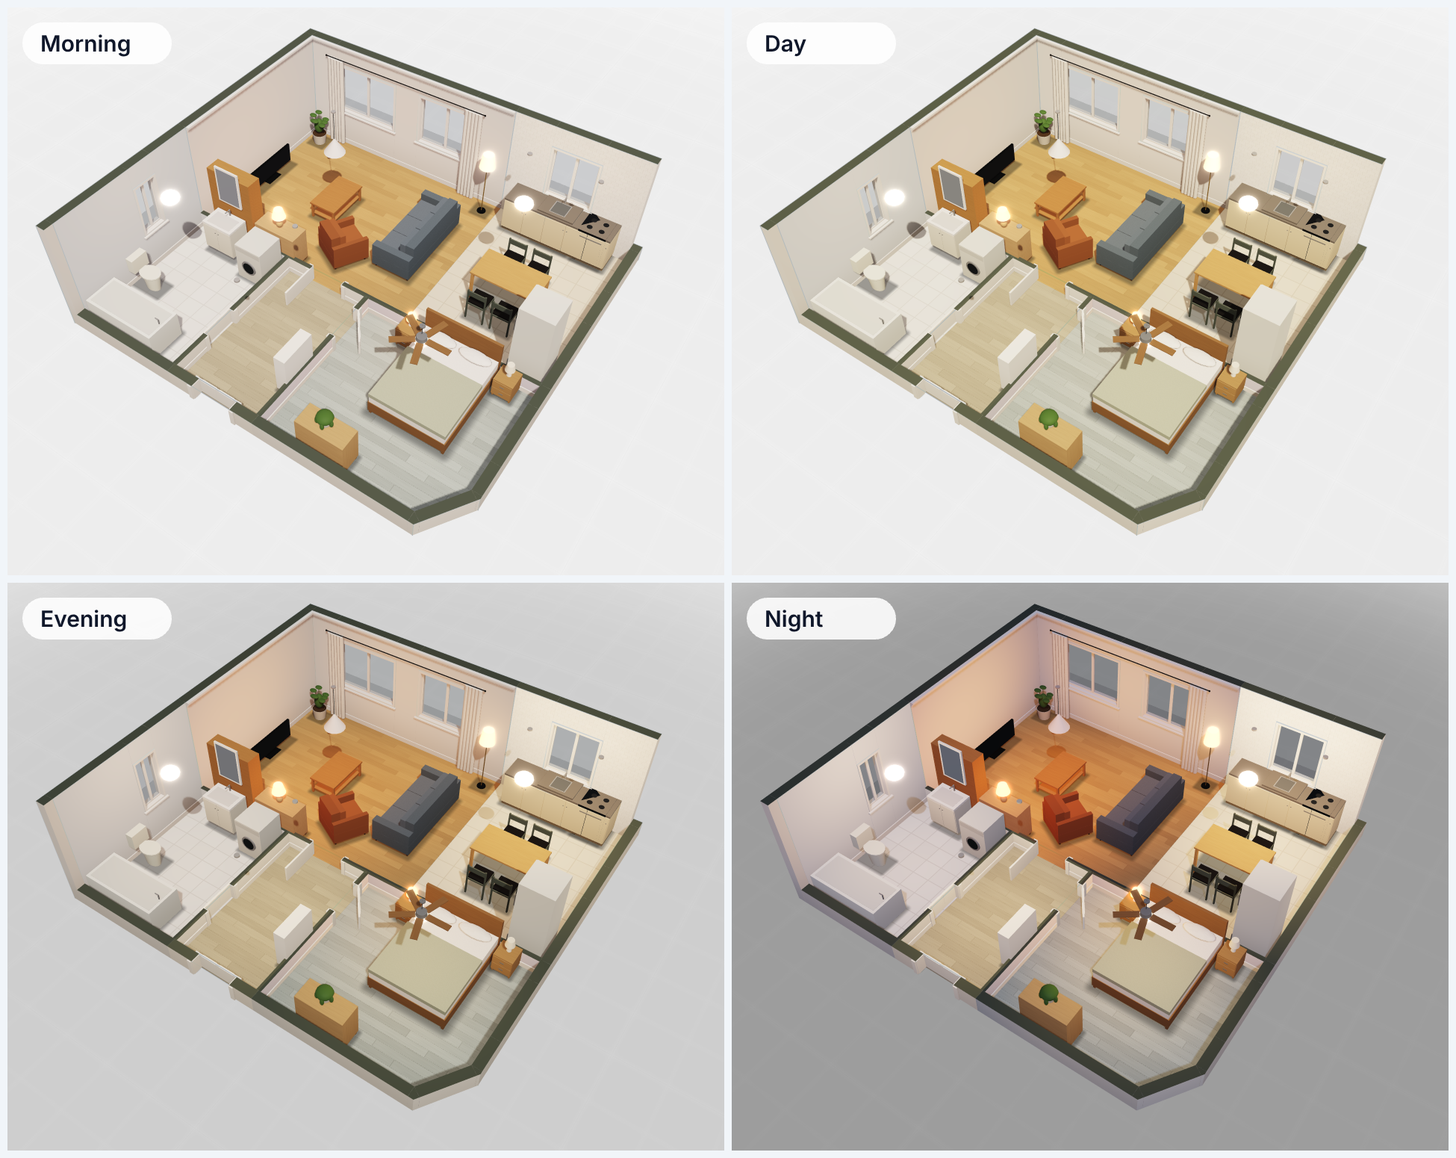
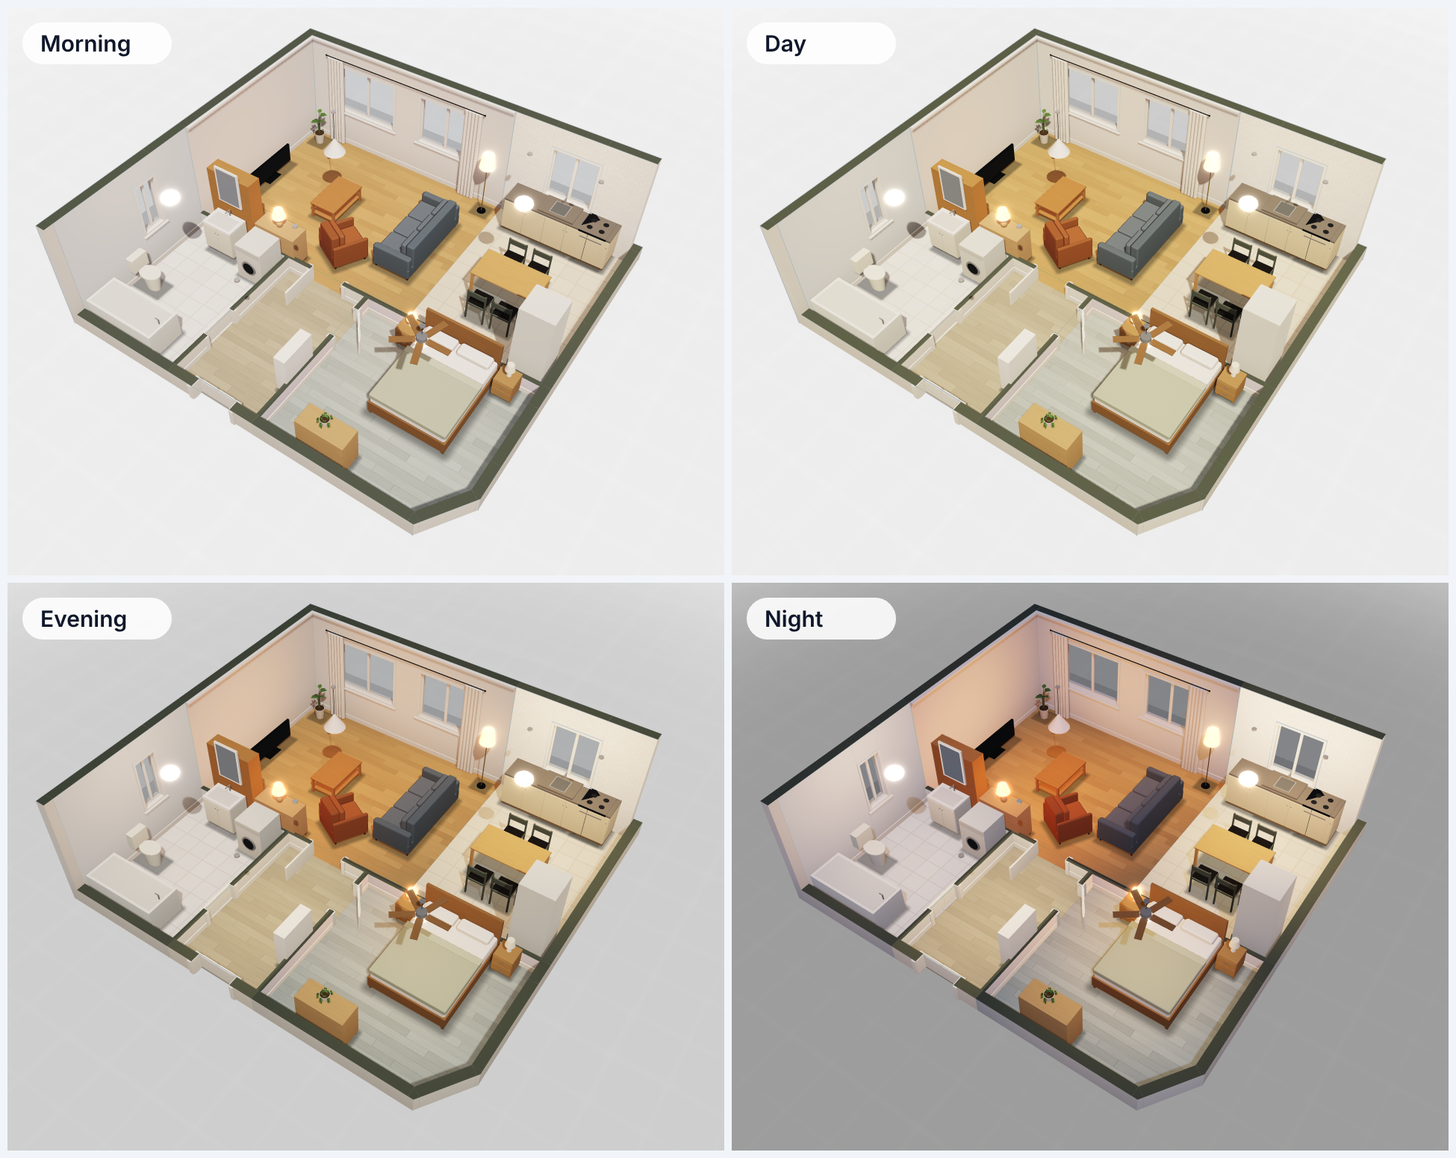
docs: pieces that look made, and a neon of its own (m15, d-048)
- D-048: leaves as folded blades, soft boxes, plants within their spread,
  the new neon, each look's own accent.
- Roadmap M15, performance (triangles, frame time against main), looks,
  storeys, architecture, both READMEs.
- The docs' pictures made again with the new pieces and the new neon; every
  storey at once is shown in blueprint, under its glass roof.

Claude-Session: https://claude.ai/code/session_01MdonJq9hYPn9yZJEoWBmnq

diff --git a/docs/looks.md b/docs/looks.md
@@ -5,9 +5,9 @@ layers, devices, people and alerts work the same way in each.
 
 ![The demo apartment in the evening, in the neon, blueprint and day looks](figures/screenshot-looks.png)
 
-- **Neon**: a night view. The walls are tinted glass, the outlines of the home glow in the accent
-  colour, the furniture takes night blues, and lamps and screens shine. A grid on the ground fades
-  into the dark.
+- **Neon**: the home at dusk. It stands in a deep violet on a ground of dots fading into the dark;
+  the tops of its walls are lit strips in the accent colour (amber unless you choose another), the
+  furniture keeps its colours under a violet light, and lamps and screens shine.
 - **Blueprint**: white lines on blue, like an architect's drawing in 3D.
 - **Day**: the home as it is, its furniture, floors and paint, in the light of the time of day
   (morning, day, evening, night) with the sun's shadows. It stands on a ground that dims at night.
@@ -20,11 +20,11 @@ layers, devices, people and alerts work the same way in each.
 
 **Automatic**, the default, shows neon when Home Assistant is in dark mode, and day otherwise.
 
-The 2D plan follows the look too: glowing wall outlines on dark floors in neon, white walls on blue
+The 2D plan follows the look too: glowing wall outlines on violet floors in neon, white walls on blue
 in blueprint, thick dark walls on bright floors in cartoon, and the same clay throughout in the clay
 model.
 
-![The neon look in the panel: the rooms' names on their floors, lamps on in the living room and the kitchen](figures/screenshot-neon.png)
+![The neon look in the panel: the home at dusk, the tops of its walls lit in amber, the rooms' names on their floors, lamps on in the living room and the kitchen](figures/screenshot-neon.png)
 
 ## Choosing
 
@@ -36,20 +36,23 @@ model.
 ```yaml
 type: custom:domotwin-card
 theme: neon        # auto, day, neon, blueprint, cartoon or clay; absent: the home's look
-accent: "#ff2d95"  # the accent colour; absent: the home's
+accent: "#ff2d95"  # the accent colour; absent: the home's, else the look's own
 names: true        # the rooms' names on their floors (true by default)
 small_rooms: false # closets' and small rooms' names too (false by default)
 ```
 
-The accent tints neon's outlines and grid, and the buttons of the view in neon.
+The accent tints neon's wall tops and dots, and the buttons of the view in neon. Each look has its
+own: amber in neon, cyan in the others. In the settings, **Default** goes back to the look's own.
 
 ## What makes them
 
 - **Outlines**: the tops and corners of the walls, the frames of doors and windows and the
   outlines of the floors are drawn as lines a few pixels wide, whatever the zoom, lowered with the
-  walls when they are cut away. In day they are thin and dark; in neon and blueprint they glow;
+  walls when they are cut away. In day they are thin and dark; in blueprint they glow; in neon,
+  the level ones glow as lit strips (the tops of the walls, the floors' outlines, the heads and
+  sills of doors and windows) and the upright ones are left out;
   in cartoon they are thick black ink; in the clay model, faint.
-- **Glass walls** (neon and blueprint): you see into every room from any angle, and a tap goes
+- **Glass walls** (blueprint): you see into every room from any angle, and a tap goes
   through a wall to what is behind it. The tops of the walls stay solid.
 - **Bloom**: lamps that are on, their halos, screens, outlines and the grid glow. It is drawn on
   GPUs that can afford it: from the Balanced quality for neon and blueprint, on High for day,
@@ -59,6 +62,9 @@ The accent tints neon's outlines and grid, and the buttons of the view in neon.
   (a sofa on the floor, a person, the home on the lawn) is inked along its edge. The ink is found
   in the depth of what is opaque, before glass, outlines, halos and wires are drawn over it, from
   the Balanced quality up, the same at any zoom and in the 2D plan. On Eco the cartoon keeps its outlines and a darker rim on curved pieces.
+- **Pieces**: plants are drawn leaf by leaf, each leaf a folded blade seen from above and below;
+  sofas, beds, cushions and the tops of tables have round edges that catch the light. They cost no
+  more triangles than the boxes and balls they replaced (`docs/DECISIONS.md`, D-048).
 - **The rooms' names** stand on their floors, well inside them (in an arm of an L-shaped room). A
   layer's values take their place while the layer is shown.
 
@@ -68,8 +74,10 @@ Day follows the dashboard.
 
 ## For developers
 
-- `crates/domotwin-core/src/theme.rs`: the looks as data (colours, glass walls, outlines, bloom,
-  palette, light, bands, vividness, ink).
+- `crates/domotwin-core/src/theme.rs`: the looks as data (colours, glass walls, outlines and how
+  much of them rises, the ground's grid or dots, bloom, palette, light, bands, vividness, ink).
+- `crates/domotwin-core/src/scene/mesh.rs`: the shapes the pieces are made of, among them the
+  soft box (round edges) and the blade (a leaf); `scene/furniture.rs`: the pieces.
 - `crates/domotwin-core/src/scene/lines.rs` and `scene/structure.rs`: the outlines of the home,
   built from the walls' layout.
 - `crates/domotwin-render`: the background pass (sky, ground, grid), the glass walls pass, the

diff --git a/README.fr.md b/README.fr.md
@@ -1,5 +1,5 @@
 <p align="center">
-  <img src="https://raw.githubusercontent.com/arthur-leguennec/ha-domotwin/main/docs/figures/screenshot-neon.png" alt="DomoTwin : un appartement fictif dans l’apparence néon, ses murs de verre soulignés de cyan, ses lampes allumées, le nom des pièces au sol" width="100%">
+  <img src="https://raw.githubusercontent.com/arthur-leguennec/ha-domotwin/main/docs/figures/screenshot-neon.png" alt="DomoTwin : un appartement fictif dans l’apparence néon, au crépuscule dans un violet profond, le haut de ses murs éclairé d’ambre, ses lampes allumées, le nom des pièces au sol" width="100%">
 </p>
 
 <p align="center"><b>Votre logement en jumeau 3D vivant dans Home Assistant.</b><br>
@@ -33,8 +33,10 @@ Local, rapide, Rust + WebAssembly.</p>
   ou un plan DomoTwin (`*.domotwin.json`), un étage ou tous, et voyez-le en maquette 3D. Les
   murs face à la caméra s’abaissent automatiquement, comme une maison de poupée ouverte. Passez à un
   plan 2D net avec une transition fluide.
-- **Cinq apparences.** **Néon** : des murs de verre soulignés d’une couleur d’accent lumineuse
-  sur une grille, des lampes et des écrans qui brillent ; **plan d’architecte** : des traits blancs
+- **Des meubles qui ont l’air vrais.** Des plantes feuille à feuille, des canapés et des lits aux
+  bords arrondis, sans rien perdre en vitesse.
+- **Cinq apparences.** **Néon** : le logement au crépuscule dans un violet profond, le haut de ses
+  murs éclairé d’ambre, des lampes et des écrans qui brillent ; **plan d’architecte** : des traits blancs
   sur fond bleu ; **jour** : le logement tel qu’il est, à la lumière de l’heure ; **dessin animé** :
   des couleurs vives cernées d’encre noire, sous un ciel bleu ; **maquette d’argile** : le logement
   en argile mate, comme une maquette d’architecte. Automatique : néon en mode sombre. Voir [les
@@ -196,7 +198,7 @@ Local, rapide, Rust + WebAssembly.</p>
 </p>
 
 <p align="center">
-  <img src="https://raw.githubusercontent.com/arthur-leguennec/ha-domotwin/main/docs/figures/screenshot-home.png" alt="Tous les étages à la fois : les deux étages de l’appartement de démonstration écartés sous un toit de verre dans l’apparence néon, chacun avec son étiquette (pièces, lumières allumées) et une image de chaque étage à gauche" width="100%">
+  <img src="https://raw.githubusercontent.com/arthur-leguennec/ha-domotwin/main/docs/figures/screenshot-home.png" alt="Tous les étages à la fois : les deux étages de l’appartement de démonstration écartés sous un toit de verre dans l’apparence plan d’architecte, chacun avec son étiquette (pièces, lumières allumées) et une image de chaque étage à gauche" width="100%">
 </p>
 
 <p align="center">
@@ -252,7 +254,7 @@ YAML n’est jamais nécessaire. Pour référence, les options de la carte :
 | `badges`      | `true`, `false`                     | `true`     | Badges des appareils : serrures, caméras, lecture, batteries faibles, appareils en marche. |
 | `cameras`     | `true`, `false`                     | `true`     | Ce que voient les caméras liées, dessiné au sol. |
 | `theme`       | `auto`, `day`, `neon`, `blueprint`, `cartoon`, `clay` | celle du logement | L’apparence ; `auto` : néon en mode sombre. |
-| `accent`      | une couleur `#rrggbb`               | celle du logement | Couleur d’accent (les contours lumineux du néon). |
+| `accent`      | une couleur `#rrggbb`               | celle du logement | Couleur d’accent (le haut des murs éclairé du néon) ; sinon celle de l’apparence. |
 | `names`       | `true`, `false`                     | `true`     | Le nom des pièces au sol.                     |
 | `small_rooms` | `true`, `false`                     | `false`    | Le nom des petites pièces aussi (placards, pièces de moins de 2,5 m²). |
 | `idle`        | secondes (0 à 86400)                | `0`        | Kiosque : revenir à cette vue après ce temps sans contact (0 : jamais). |

diff --git a/docs/DECISIONS.md b/docs/DECISIONS.md
@@ -1561,3 +1561,50 @@ M16.
   - The room panel's **All lights off** becomes **Lights off** among the room's buttons, and
     switches the room's lights by name rather than the whole area.
   - Nothing new is sent anywhere: the bubble and the buttons call the same services as before.
+
+## D-048 · Pieces that look made, and a neon of its own
+
+M15.
+
+- **Context.** The plants were balls of green on sticks, and the sofas, beds and cushions were
+  boxes with sharp edges: the home read as a sketch next to the light and the looks around it.
+  The neon look (walls of tinted glass, every edge glowing in cyan, a square grid on a black
+  ground) looked like other 3D home dashboards. The maintainer asked for better pieces with no
+  loss of speed, and for a neon that is DomoTwin's own and still beautiful.
+- **Decision.**
+  - **Leaves are folded blades.** A leaf is a midrib and its two edges, in a few lengths, its
+    outline given by a shape (a heart for the monstera and the pothos, a long strap for the
+    dracaena), folded along its midrib and falling towards its tip. Both faces are drawn with
+    their own normals, so a leaf reads from above and from below; where its outline comes to a
+    point, the strip closes with one triangle a side. Each leaf is a little lighter or darker than
+    the next. The monstera holds nine leaves out on stems that rise and bend; the pothos is a mound
+    with vines trailing over the rim of its pot; the dracaena has three canes, each with a crown of
+    eleven arching leaves. The pot has a rolled rim and soil. The piece's footprint is the plant's
+    spread: its leaves stay within it, over a pot narrower than it, so that a plant beside a wall
+    does not reach into it.
+  - **Soft pieces have round edges.** Sofas (base, arms, back, cushions), beds (mattress, duvet,
+    pillows), chair pads and seats, and the tops of tables, desks and consoles are boxes whose
+    edges and corners are cut and shaded round: 48 vertices and 44 triangles a box, the light
+    rolling over each edge by its normals and its fabric or grain running on over it, the radius
+    at most a third of the box's thinnest side.
+    Pillows are soft boxes instead of spheres.
+  - **No more triangles.** Spheres take fewer segments when they are small, the pillows and
+    plants that were made of them are drawn otherwise, and stems have no ends hidden in a joint: the demo apartment has 12 551 triangles,
+    down from 13 843.
+  - **Neon at dusk.** The home stands in a deep violet dusk, on a ground of dots rather than a
+    grid. Its walls are solid, in violet; their tops are drawn as lit strips in the accent and the
+    corners have no upright lines. The accent is amber by default (`#ffae45`). The furniture keeps
+    more of its colours, tinted towards violet, and the leaves keep part of their green. The view's
+    buttons and the panel take the same violet and amber. Glass walls stay blueprint's.
+  - **Each look says** whether its plants keep part of their green (neon) and whether its 2D plan
+    colours every floor alike (neon's violet, blueprint's blue).
+  - **Each look has its own default accent**: amber in neon, cyan in the others. An accent chosen
+    in the settings or a card's options is kept whatever the look; the settings' **Default** goes
+    back to the look's own.
+- **Consequences.**
+  - Neon no longer shows through its walls: it cuts them away as day does, and a tap on a wall in
+    front of a room no longer reaches the room behind it. Walking, its rooms have their ceilings;
+    with every storey shown, its roof is solid. Blueprint keeps its glass.
+  - A home whose accent was never chosen shows neon in amber; one whose accent was chosen keeps it.
+  - The pictures of the docs are made again with the new pieces and the new neon.
+  - Nothing else changes for the plans: the kinds and their styles are those of before.

diff --git a/README.md b/README.md
@@ -1,5 +1,5 @@
 <p align="center">
-  <img src="https://raw.githubusercontent.com/arthur-leguennec/ha-domotwin/main/docs/figures/screenshot-neon.png" alt="DomoTwin: a fictional apartment in the neon look, its walls of glass outlined in cyan, its lamps on, the rooms named on their floors" width="100%">
+  <img src="https://raw.githubusercontent.com/arthur-leguennec/ha-domotwin/main/docs/figures/screenshot-neon.png" alt="DomoTwin: a fictional apartment in the neon look, at dusk in deep violet, the tops of its walls lit in amber, its lamps on, the rooms named on their floors" width="100%">
 </p>
 
 <p align="center"><b>Your home as a live 3D twin in Home Assistant.</b><br>
@@ -31,7 +31,9 @@ Local, fast, Rust + WebAssembly.</p>
   (`*.domotwin.json`), one storey or all of them, and see it as a clean 3D model. The
   walls facing the camera are lowered automatically, like an open dollhouse. Switch to a crisp 2D
   plan with a smooth animation.
-- **Five looks.** **Neon**: walls of glass outlined in a glowing accent colour over a grid,
+- **Pieces that look made.** Plants leaf by leaf, sofas and beds with soft edges, at no cost in
+  speed.
+- **Five looks.** **Neon**: the home at dusk in deep violet, the tops of its walls lit in amber,
   lamps and screens that shine; **blueprint**: white lines on blue; **day**: the home as it is, in
   the light of the time of day; **cartoon**: flat bright colours inked in black, under a blue sky;
   **clay model**: the home in matte clay, like an architect's model. Automatic: neon in Home
@@ -177,7 +179,7 @@ Local, fast, Rust + WebAssembly.</p>
 </p>
 
 <p align="center">
-  <img src="https://raw.githubusercontent.com/arthur-leguennec/ha-domotwin/main/docs/figures/screenshot-home.png" alt="Every storey at once: the demo apartment's two storeys spread apart under a glass roof in the neon look, each with its label (rooms, lights on) and a picture of each storey on the left" width="100%">
+  <img src="https://raw.githubusercontent.com/arthur-leguennec/ha-domotwin/main/docs/figures/screenshot-home.png" alt="Every storey at once: the demo apartment's two storeys spread apart under a glass roof in the blueprint look, each with its label (rooms, lights on) and a picture of each storey on the left" width="100%">
 </p>
 
 <p align="center">
@@ -229,7 +231,7 @@ YAML is never required. For reference, the card options are:
 | `badges`      | `true`, `false`                     | `true`     | Badges over the devices: locks, cameras, what plays, low batteries, appliances running. |
 | `cameras`     | `true`, `false`                     | `true`     | What the linked cameras see, drawn on the floor. |
 | `theme`       | `auto`, `day`, `neon`, `blueprint`, `cartoon`, `clay` | the home's | The look; `auto` is neon in dark mode. |
-| `accent`      | a colour `#rrggbb`                  | the home's | Accent of the look (neon's glowing outlines). |
+| `accent`      | a colour `#rrggbb`                  | the home's | Accent of the look (neon's lit wall tops); else the look's own. |
 | `names`       | `true`, `false`                     | `true`     | The rooms' names on their floors.         |
 | `small_rooms` | `true`, `false`                     | `false`    | The names of small rooms too (closets, rooms under 2.5 m²). |
 | `idle`        | seconds (0 to 86400)                | `0`        | Kiosk: back to this view after this long untouched (0: never). |

diff --git a/docs/PERFORMANCE.md b/docs/PERFORMANCE.md
@@ -768,3 +768,44 @@ link editor's plain actions and advanced mode with the editor (+2.9 kB). A room'
 worked out once while the registries, the links and the pieces stay the same, not at every state
 change; what the buttons offer (media off while one plays) is read from the states then.
 
+
+### M15 (pieces that look made, and a neon of its own)
+
+Bundle: the first load is **487.8 kB gzipped** of 1 200 kB (+6.2 kB). The engine grew by 5.9 kB
+(`domotwin_web_bg.<hash>.wasm`: 849.1 kB raw, 368.6 kB gzipped, from 836.7 kB and 362.7 kB): the
+leaves, the soft boxes, the three plants and the new neon. The rest is the settings' **Default**
+and its texts.
+
+The demo apartment has **12 551 triangles**, down from 13 843 (−9 %), and 14 480 + 3 612 + 104
+vertices (`cargo test -p domotwin-core --test scene`): small spheres take fewer segments, pillows
+are soft boxes instead of spheres, plants are drawn leaf by leaf instead of balls of leaves, and
+stems have no ends hidden in a joint. A soft box is 48 vertices and 44 triangles where a box is 24
+and 12; the leaves are drawn on both faces. The wasm memory after loading the demo is 2.69 MB, from
+2.82 MB.
+
+Frame time, the branch against `main` measured the same way one after the other
+(`e2e/perf.spec.ts`, headless Chromium, SwiftShader). The CPU's share, the median of 120 frames
+for the demo plan and of 20 for each look at High, evening, lamps on:
+
+| | Before (median, p95) | After (median, p95) |
+| --- | ---: | ---: |
+| Demo plan | 0.4 ms, 1.3 ms | 0.4 ms, 2.3 ms |
+| Day | 0.9 ms, 4.9 ms | 0.8 ms, 6.6 ms |
+| Neon | 0.5 ms, 0.8 ms | 0.4 ms, 1.6 ms |
+| Blueprint | 0.5 ms, 5.5 ms | 0.4 ms, 0.6 ms |
+| Cartoon | 0.6 ms, 12.3 ms | 0.5 ms, 1.3 ms |
+| Clay | 0.5 ms, 4.4 ms | 0.7 ms, 5.5 ms |
+
+The medians are the same within the noise; the p95s move with whatever else the machine was
+doing. The software GPU's share, neon in the evening with the lamps on (the median of nine frames,
+each read back, "frame time of each quality preset"):
+
+| Preset | Before | After |
+| --- | ---: | ---: |
+| Eco | 271 ms | 232 ms |
+| Balanced | 319 ms | 273 ms |
+| High | 298 ms | 235 ms |
+
+Neon costs less than before: its walls are drawn once, opaque, instead of a pass of glass over
+what is behind them, and the upright lines it leaves out are moved out of the view instead of
+being drawn at no strength.

diff --git a/docs/ROADMAP.md b/docs/ROADMAP.md
@@ -37,6 +37,7 @@ Legend: ✅ done · 🚧 in progress · ⏳ planned · ❓ needs a decision from
 | M13b      | Phones and crowded names: icons, small rooms left out      | ✅     |
 | M14       | Actions done later: sheet, automations, voice              | ✅     |
 | M16       | Taps that say what they do: bubbles, plain actions, rooms  | ✅     |
+| M15       | Pieces that look made, and a neon of its own               | ✅     |
 
 M5 to M11 were added after M3b (`DECISIONS.md`, D-022): what people expect of a 3D home dashboard,
 with no account and no network call outside Home Assistant. M8 became the looks alone, and the
@@ -874,3 +875,22 @@ room has buttons of its own (D-047, `docs/bindings.md`):
   (vitest); the room's actions checked by the integration, an action on 25 devices (pytest); a
   lamp's bubble, a sensor's bubble, the tip, a room's chip and its panel's Later, a TV's plain
   and advanced actions in French, a room's own action (Playwright).
+
+## M15, pieces that look made
+
+Better plants and furniture at no cost in speed, and a neon look of DomoTwin's own (D-048,
+`docs/looks.md`):
+
+- ✅ **Plants leaf by leaf**: each leaf a folded blade with its outline (a heart, a long strap),
+  seen from above and below; a monstera on curved stems, a pothos with trailing vines, a dracaena
+  with its crowns, in a pot with a rim and soil.
+- ✅ **Soft edges**: sofas, beds, cushions, chair pads and the tops of tables are boxes with round
+  edges that catch the light.
+- ✅ **Fewer triangles**: the demo apartment has 12 551, down from 13 843; no frame is slower, and
+  neon is drawn faster than before (`docs/PERFORMANCE.md`).
+- ✅ **Neon at dusk**: a deep violet home on a ground of dots, solid walls topped with lit strips
+  in amber, the furniture keeping its colours; each look has its own default accent, and the
+  settings can go back to it.
+- ✅ Tests: the soft box closed and facing out, the leaf's two faces and pointed ends, the new neon
+  (cargo); the accent of each look, chosen, saved and back to the look's own (Playwright); the
+  screenshots of the looks made again.

diff --git a/docs/ARCHITECTURE.md b/docs/ARCHITECTURE.md
@@ -71,9 +71,9 @@ every reader returns `Result` with a stable error code that the frontend transla
   it, the doors it goes through, the way from room to room, the widest view, D-029); `bindings`
   and `live` turn entity states into the look of each element and fade towards it (D-016).
 - `domotwin-render` uploads the meshes once and draws them with its own shaders (`shaders.rs`):
-  the sun shadow map (Balanced and High, day look), the background (sky, ground and grid), the
-  opaque home and the walls (their tops alone in neon and blueprint), then glass and contact
-  shadows, the glass faces of the walls (neon and blueprint), the outlines of the home
+  the sun shadow map (Balanced and High, day look), the background (sky, ground and its grid or
+  dots), the opaque home and the walls (their tops alone in blueprint), then glass and contact
+  shadows, the glass faces of the walls (blueprint), the outlines of the home
   (`scene::lines`), then the halos of lit bulbs. In the looks that glow, all of it is drawn
   offscreen with 4× MSAA, and a bloom of what glows is added on the way to the screen (D-027).
   The look of every element (glow, greyed out, flash) is a small texture the vertex shader reads;

diff --git a/docs/storeys.md b/docs/storeys.md
@@ -42,7 +42,7 @@ and take the roof off (and put it back); both are animated.
   the layers (heatmap, alerts, presence, power), the badges and what the cameras see show on
   every storey.
 - **The roof** is a gable roof over the top storey's walls, its ridge along the longer side. It is
-  of glass in the neon and blueprint looks, tiled in day. A tap goes through it to what is under it.
+  of glass in the blueprint look, tiled in the others. A tap goes through it to what is under it.
 - **On the 2D plan**, the storeys lie side by side, the ground floor on the left (down the view in
   a view taller than wide, the highest on top), each with its label over it.
 
